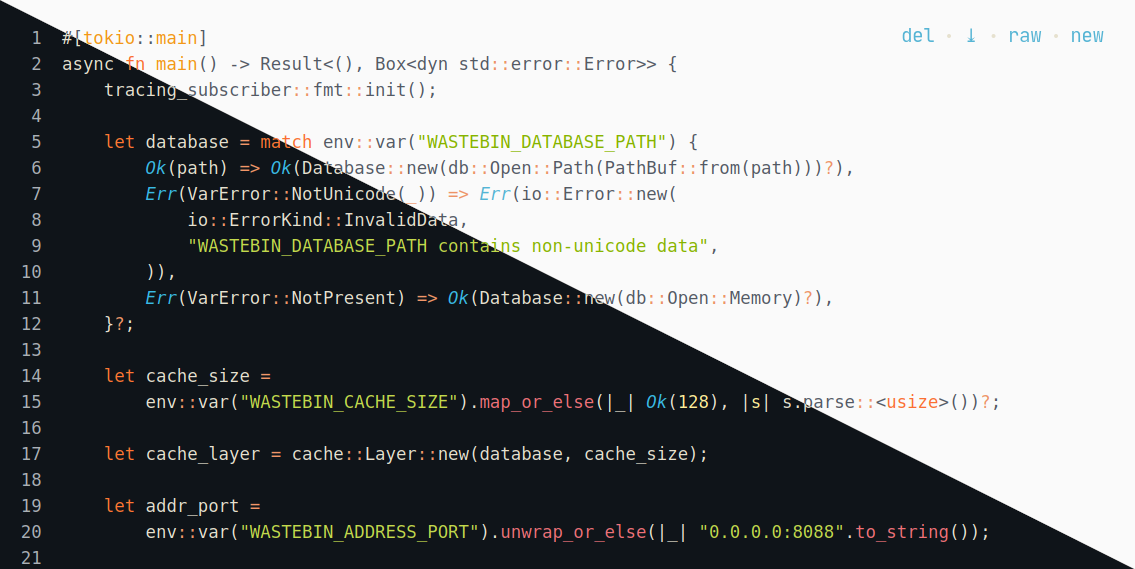
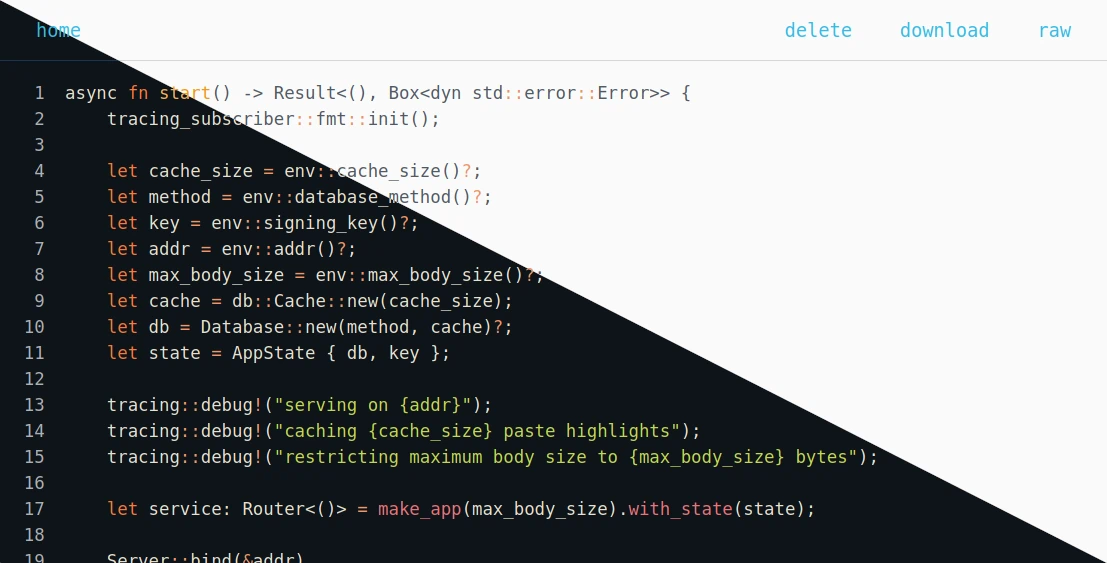
Fix #20: improve navbar and general layout

diff --git a/src/themes/style.css b/src/themes/style.css
@@ -10,6 +10,10 @@
   select {
     color: #e6e1cf;
   }
+
+  header {
+    border-bottom: 1px solid #163855;
+  }
 }
 
 @media (prefers-color-scheme: light) {
@@ -20,21 +24,65 @@
   select {
     color: #0f1419;
   }
+
+  header {
+    border-bottom: 1px solid #d9d7d7;
+  }
 }
 
 body {
   font-family: "JetBrains Mono", monospace;
-  margin: 2em 2em 0 2em;
+  font-size: 13pt;
+  padding: 0;
+  margin: 0;
+}
+
+header {
+  display: flex;
+  justify-content: flex-end;
+  align-items: center;
+  padding: 0 1em 0 1em;
+}
+
+#nav-title {
+  margin-right: auto;
+}
+
+header ul {
+  margin: 0;
   padding: 0;
 }
 
-pre {
-  font-size: 13pt;
+header li {
+  list-style: none;
+  display: inline-block;
+}
+
+header button {
+  color: #39bae6;
+  border: none;
+  padding: 1em;
+  background: none;
+}
+
+header button:hover {
+  background-color: #39bae6;
+  color: #0f1419;
+}
+
+button {
+  font-family: "JetBrains Mono", monospace;
+  font-size: 14pt;
+}
+
+button:hover {
+  cursor: pointer;
 }
 
 select {
   width: 100%;
   font-family: "JetBrains Mono", monospace;
+  font-size: 13pt;
   border: none;
 }
 
@@ -55,6 +103,7 @@ a, a:visited, a:hover {
   height: 96vh;
   align-items: stretch;
   justify-items: stretch;
+  margin: 2em;
 }
 
 .content {
@@ -90,28 +139,9 @@ a, a:visited, a:hover {
 
 .paste-button > button {
   width: 100%;
-  font-family: "JetBrains Mono", monospace;
-  font-size: 14pt;
   padding: 1em;
   border: none;
   background-color: #39bae6;
-}
-
-.paste-box {
-  position: fixed;
-  top: 0px;
-  right: 0px;
-  padding: 2em;
-  color: #e6e1cf;
-}
-
-.paste-box > a {
-  font-size: 14pt;
-  text-decoration: none;
-}
-
-.paste-box > a:visited {
-  text-decoration: none;
 }
 
 td.line-number {

diff --git a/templates/paste.html b/templates/paste.html
@@ -21,18 +21,18 @@
 </script>
 {% endblock %}
 
+{% block nav %}
+  {% if can_delete %}
+    <li><a href="/delete/{{ id }}"><button>delete</button></a></li>
+  {% endif %}
+    <li><a href="/{{ id }}?dl={{ ext }}"><button>download</button></a></li>
+    <li><a href="/{{ id }}?fmt=raw"><button>raw</button></a></li>
+{% endblock %}
+
 {% block content %}
   <div>
     <div>
       <pre class="code">{{ html|safe }}</pre>
-    </div>
-    <div class="paste-box">
-      {% if can_delete %}
-      <a class="punctuation definition tag" href="/delete/{{ id }}">del</a> •
-      {% endif %}
-      <a class="punctuation definition tag" href="/{{ id }}?dl={{ ext }}">↓</a>
-      • <a class="punctuation definition tag" href="/{{ id }}?fmt=raw"/>raw</a>
-      • <a class="punctuation definition tag" href="/">new</a>
     </div>
   </div>
 {% endblock %}

diff --git a/templates/base.html b/templates/base.html
@@ -10,6 +10,14 @@
     {% block head %}{% endblock %}
   </head>
   <body>
+    <header>
+      <span id="nav-title"><a href="/"><button>home</button></a></span>
+      <nav>
+        <ul>
+          {% block nav %}{% endblock %}
+        </ul>
+      </nav>
+    </header>
     {% block content %}{% endblock %}
   </body>
 </html>

diff --git a/CHANGELOG.md b/CHANGELOG.md
@@ -2,6 +2,11 @@
 
 ## Unreleased
 
+### Changed
+
+- Replace overlaying link box with a navigation bar containing stylized buttons
+  and homogenize layout in general.
+
 ### Fixed
 
 - Format burn page like the rest.
